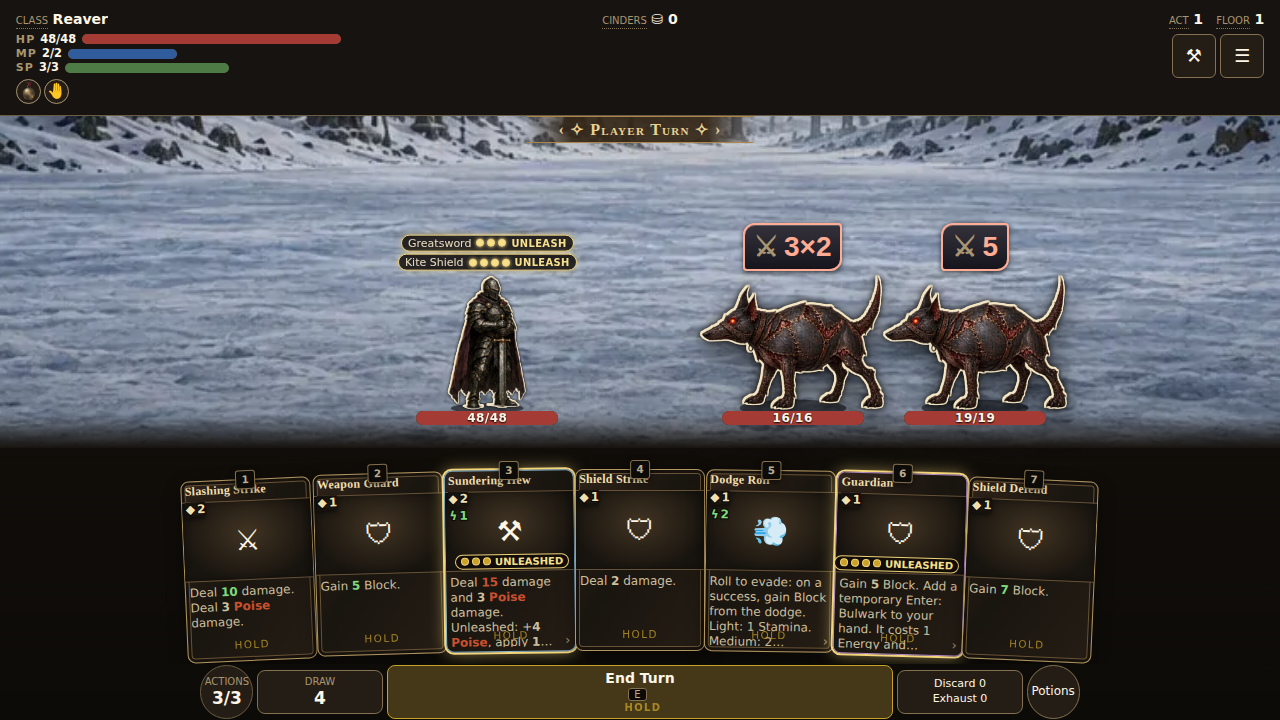
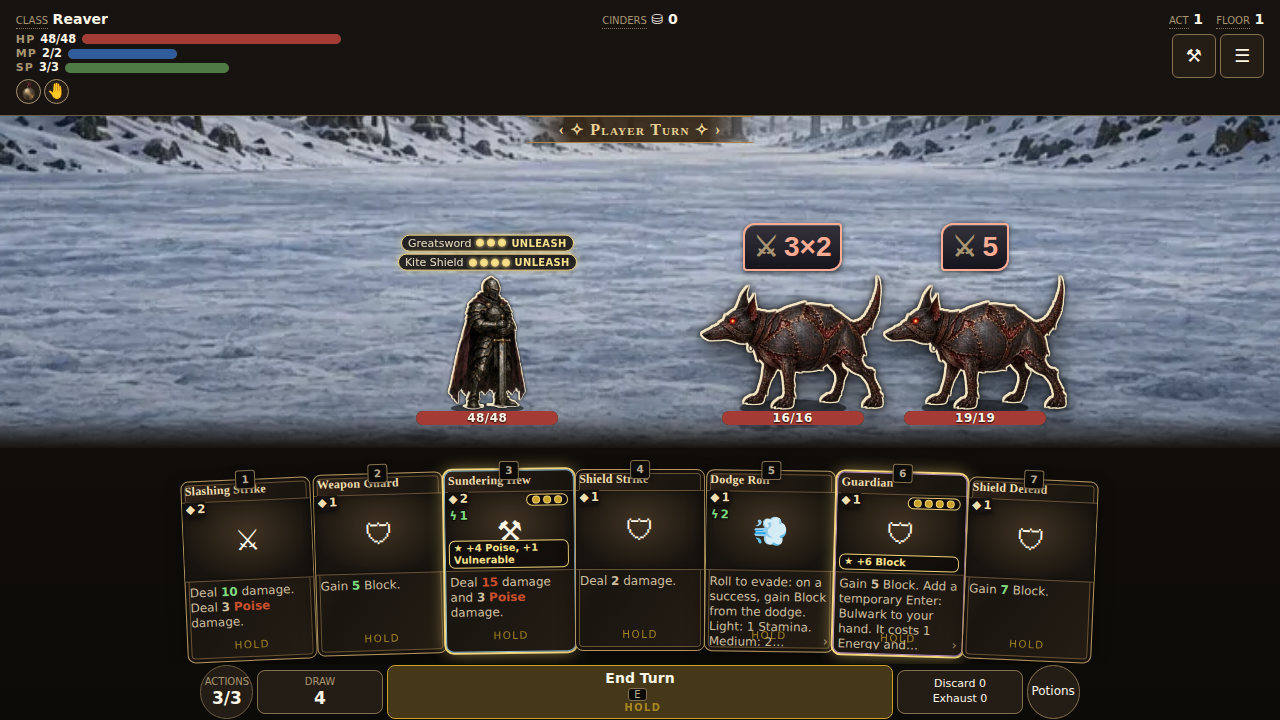
Print the unleashed bonus as a strip that fits a resting card
The 'Unleashed: +4 Poise, apply 1 Vulnerable.' line was appended to the
rules text, so at resting size it truncated, and on a card with long
rules (Guardian) it never showed at all. The line is now compact
('★ +4 Poise, +1 Vulnerable') and rides the foot of the art band as its
own wrapping strip; the charge pill moves clear of it. In the phone's
overlapping hand the strip keeps to the card's uncovered step and prints
a shorter form (dmg, Vuln.) so the whole bonus reads at rest. The full
HUD shots are re-captured.

Claude-Session: https://claude.ai/code/session_01WtZoQ4ef1DTf4X48gT3n5K

diff --git a/src/ui/components/card.js b/src/ui/components/card.js
@@ -125,8 +125,11 @@ export function renderCard(registries, ref, opts = {}) {
   // A weapon Art whose charge meter is full prints its unleashed line after
   // its own text (SPEC §12.2.1): the template comes from the preview, and its
   // tokens are in the preview's tokens, so it fills like any card text.
+  // It rides the foot of the art band as its own strip rather than the end of
+  // the rules text: a long rules text clipped it at resting size, and the art
+  // band has room the text band does not. A face that withholds the art band
+  // prints it after the text instead.
   const unleashedLine = opts.preview && opts.preview.artCharge && opts.preview.artCharge.unleashed && opts.preview.artCharge.textTemplate;
-  const printedDef = unleashedLine ? { ...def, textTemplate: `${def.textTemplate} ${unleashedLine}` } : def;
   const el = document.createElement('div');
   // THE FACE IS THE KIT'S CARD (§10): a fixed box, fixed landmarks (name, art,
   // type band), and one shared row budget below the band that tags and text
@@ -223,6 +226,12 @@ export function renderCard(registries, ref, opts = {}) {
     // still takes its share of the face's row budget, so the card would be the
     // same card with holes rather than a larger-typed one — and a screen
     // reader would announce a field the player cannot see.
+    const unleashedShort = unleashedLine && opts.preview.artCharge.shortTemplate;
+    const unleashedHtml = unleashedLine
+      ? `<span class="cd-unleashed-long">${fillTemplate({ ...def, textTemplate: unleashedLine }, model.tokens, model.baseTokens)}</span>`
+        + (unleashedShort ? `<span class="cd-unleashed-short">${fillTemplate({ ...def, textTemplate: unleashedShort }, model.tokens, model.baseTokens)}</span>` : '')
+      : '';
+    const printedDef = unleashedLine && !visible.has('art') ? { ...def, textTemplate: `${def.textTemplate} ${unleashedLine}` } : def;
     const body = region('type', `<div class="ctype">${esc(model.type.label)}</div>`)
       + region('effects', `<div class="ctext cd-text">${fillTemplate(printedDef, model.tokens, model.baseTokens)}</div>`);
     // The information button and the chevron are children of the card that
@@ -263,7 +272,8 @@ export function renderCard(registries, ref, opts = {}) {
         ? `<div class="ctags cd-tags">${tags
             .map((t) => `<span class="ctag as-tag" style="--tag-color:#${esc(t.color)}" data-tip="${esc(t.blurb + (t.inheritedFrom.length ? ` Granted by ${t.inheritedFrom.join(', ')}.` : ''))}">${esc(t.glyph)} ${esc(t.label)}</span>`)
             .join('')}</div>`
-        : '') + '</div>') +
+        : '') +
+      (unleashedHtml ? `<div class="cd-unleashed" data-unleashed-line>${unleashedHtml}</div>` : '') + '</div>') +
       (body ? `<div class="cd-body">${body}</div>` : '') +
       region('footer', metadataBand(def.rarity, opts.owned));
     // Stamp what this paint drew BEFORE the kept children go back on, so the

diff --git a/styles/combat.css b/styles/combat.css
@@ -1549,7 +1549,19 @@
   font-size: calc(10px / var(--ui-zoom, 1)); color: #f7e08c; white-space: nowrap; font-weight: 700; text-transform: uppercase;
 }
 .hand .card[data-art-charge='full'] { box-shadow: 0 0 0 2px #f3d57a, 0 0 16px #f3d57a99; }
-.hand .card[data-art-charge='full'] .art-charge-card { border-color: #f3d57a; }
+.hand .card[data-art-charge='full'] .art-charge-card { border-color: #f3d57a; top: 13%; }
+/* The unleashed strip (card.js): the full bonus at the foot of the art band,
+   wrapping rather than clipping, so it reads in full at resting size. */
+.card .art .cd-unleashed {
+  position: absolute; left: calc(3px / var(--ui-zoom, 1)); right: calc(3px / var(--ui-zoom, 1)); bottom: calc(2px / var(--ui-zoom, 1)); z-index: 2;
+  padding: calc(1px / var(--ui-zoom, 1)) calc(4px / var(--ui-zoom, 1)); border: 1px solid #f3d57a; border-radius: calc(6px / var(--ui-zoom, 1));
+  background: #120d09e6; color: #f7e08c; font-size: calc(10px / var(--ui-zoom, 1)); font-weight: 700; line-height: 1.2;
+  text-align: center; white-space: normal; overflow-wrap: break-word; pointer-events: none;
+}
+/* In an overlapping hand only a card's left step is uncovered at rest
+   (--hand-hit-width, hand.js), so the strip keeps to that step and wraps. */
+.hand .card .art .cd-unleashed { max-width: calc(var(--hand-hit-width, 100%) - 10px / var(--ui-zoom, 1)); text-align: left; }
+.card .cd-unleashed-short { display: none; }
 .hand .card[data-art-charge='full'].art-charge-flash { animation: art-charge-flash 700ms ease-out 2; }
 .reduced-motion .combat .art-charge-row.flash,
 .reduced-motion .hand .card.art-charge-flash { animation: none; }
@@ -1564,7 +1576,10 @@
   .combat .art-charge-row { padding: calc(2px / var(--ui-zoom, 1)) calc(4px / var(--ui-zoom, 1)); }
   /* Overlapping cards cover each other's right side, so the pips sit on the
      card's top-left edge, above the cost — the part every card keeps visible. */
-  .hand .card .art-charge-card { left: calc(2px / var(--ui-zoom, 1)); right: auto; top: calc(-8px / var(--ui-zoom, 1)); z-index: 5; }
+  .hand .card .art .cd-unleashed { left: calc(1px / var(--ui-zoom, 1)); max-width: calc(var(--hand-hit-width, 100%) - 4px / var(--ui-zoom, 1)); font-size: calc(9px / var(--ui-zoom, 1)); line-height: 1.15; padding-inline: calc(2px / var(--ui-zoom, 1)); }
+  .hand .card .art .cd-unleashed-long { display: none; }
+  .hand .card .art .cd-unleashed-short { display: inline; }
+  .hand .card .art-charge-card, .hand .card[data-art-charge='full'] .art-charge-card { left: calc(2px / var(--ui-zoom, 1)); right: auto; top: calc(-8px / var(--ui-zoom, 1)); z-index: 5; }
 }
 /* ---------- combat juice (SPEC §7.4): damage scale, hit-stop, kill cam ----------
    Decisions and every number: CombatJuiceModel.js + combatJuiceModel.json.

diff --git a/src/model/artCharge.js b/src/model/artCharge.js
@@ -144,26 +144,45 @@ export function artChargeSnapshotProblems(value) {
 }
 
 /**
- * unleashedTemplate(form, statusName) → the card-text line (SPEC §3.13) for an
- * unleashed form: "Unleashed: +{unleashed.0} damage, …". Each value token is
+ * shortStatusName(name) → the phone strip's word for a status: a name of six
+ * letters or fewer as it is ("Bleed"), the last word of a longer multi-word
+ * name when that is short ("Crimson Blight" → "Blight"), else its first four
+ * letters and a stop ("Vulnerable" → "Vuln.").
+ */
+export function shortStatusName(name = '') {
+  const s = String(name);
+  if (s.length <= 6) return s;
+  const last = s.split(/\s+/).pop();
+  if (last !== s && last.length <= 6) return last;
+  return `${s.slice(0, 4)}.`;
+}
+
+/**
+ * unleashedTemplate(form, statusName, { short }) → the card-text line (SPEC §3.13) for an
+ * unleashed form: "★ +{unleashed.0} damage, +{unleashed.1} Bleed". Compact on
+ * purpose — it must fit a resting hand card in full; the ★ is the Unleashed
+ * mark the meter and the card's edge already explain. `short` is the phone
+ * hand's wording (dmg, shortStatusName), where only a card's uncovered step
+ * shows at rest. Each value token is
  * `unleashed.<effect index>`, filled by previewCard with the same evaluator
  * the play uses, so the printed number is the number that lands.
  */
-export function unleashedTemplate(form, statusName = (id) => id) {
+export function unleashedTemplate(form, statusName = (id) => id, { short = false } = {}) {
   const parts = [];
+  const name = short ? (id) => shortStatusName(statusName(id)) : statusName;
   (form && form.effects || []).forEach((eff, i) => {
     const tok = `{unleashed.${i}}`;
     const hits = typeof eff.hits === 'number' && eff.hits > 1 ? `×${eff.hits}` : '';
-    const all = eff.target === 'allEnemies' ? ' to all' : '';
+    const all = eff.target === 'allEnemies' ? (short ? ' all' : ' to all') : '';
     switch (eff.op) {
-      case 'damage': parts.push(`+${tok}${hits} damage${all}`); break;
+      case 'damage': parts.push(`+${tok}${hits} ${short ? 'dmg' : 'damage'}${all}`); break;
       case 'poiseDamage': parts.push(`+${tok} Poise${all}`); break;
       case 'block': parts.push(`+${tok} Block`); break;
       case 'draw': parts.push(`draw ${tok}`); break;
       case 'heal': parts.push(`heal ${tok}`); break;
-      case 'applyStatus': parts.push(`${eff.target === 'self' ? 'gain' : 'apply'} ${tok} ${statusName(eff.status)}${all}`); break;
+      case 'applyStatus': parts.push(`+${tok} ${name(eff.status)}${all}`); break;
       default: parts.push(eff.op);
     }
   });
-  return parts.length ? `Unleashed: ${parts.join(', ')}.` : '';
+  return parts.length ? `★ ${parts.join(', ')}` : '';
 }

diff --git a/src/engine/combat.js b/src/engine/combat.js
@@ -1223,11 +1223,13 @@ export function previewCard(combat, cardInstanceId, targetId) {
   // whose lender has a meter.
   const unleash = artUnleashFor(combat, inst);
   let unleashedText = null;
+  let unleashedShort = null;
   if (unleash && unleash.ready) {
     // The unleashed line joins the card text (SPEC §3.13): its tokens are
     // resolved here by the same math the play will run.
     const statusName = (id) => (combat.registries.statuses.has(id) ? combat.registries.statuses.get(id).name : id);
     unleashedText = unleashedTemplate(unleash.form, statusName);
+    unleashedShort = unleashedTemplate(unleash.form, statusName, { short: true });
     unleash.form.effects.forEach((eff, i) => {
       const primary = firstResolvedTarget(combat, action, eff);
       let value;
@@ -1239,7 +1241,7 @@ export function previewCard(combat, cardInstanceId, targetId) {
     });
   }
   return {
-    ...(unleash ? { artCharge: { weaponId: unleash.weaponId, value: unleash.value, max: unleash.max, unleashed: unleash.ready, ...(unleashedText ? { textTemplate: unleashedText } : {}) } } : {}),
+    ...(unleash ? { artCharge: { weaponId: unleash.weaponId, value: unleash.value, max: unleash.max, unleashed: unleash.ready, ...(unleashedText ? { textTemplate: unleashedText, shortTemplate: unleashedShort } : {}) } } : {}),
     cardId: inst.cardId,
     upgraded: inst.upgraded,
     name: def.name,

diff --git a/src/ui/screens/combat.js b/src/ui/screens/combat.js
@@ -1316,7 +1316,8 @@ export function mountCombat(app, { registries, run, combat, meta, onEnd, showTut
       badge.appendChild(artChargePips(charge.value, charge.max));
       if (charge.unleashed) {
         const form = unleashedFormFor(registries, inst.cardId);
-        badge.appendChild(el('span', { text: t('combat.art.unleashed') }));
+        // The card's own unleashed strip (card.js) prints the bonus, so the
+        // marker is the pips alone and moves clear of that strip.
         badge.title = form ? `Unleashed: ${unleashedSummary(form.effects, statusDisplayName)}` : t('combat.art.unleashed');
       }
       node.appendChild(badge);

diff --git a/SPEC.md b/SPEC.md
@@ -1807,7 +1807,7 @@ A transaction validates current stock, ownership, capacity, and funds at commitm
 6. **Swap** (`swapArmament`, `changeEquipment`): the meter belongs to the armament, not the hand. A swapped-out weapon keeps its stored value for the rest of the fight but neither gains nor unleashes; swapping it back in resumes from that value. A swapped-in weapon starts from its own stored value (0 if unused this fight).
 7. **Preview.** `previewCard` reports `artCharge: { weaponId, value, max, unleashed }` for a `weaponArt` instance whose lender has a meter, so the hand and HUD read the same answer the play will use.
 8. **Save compatibility.** The combat snapshot carries `artCharge` (a map of non-negative integers, validated when present). A snapshot written before this subsection has no field and restores with every meter at 0; nothing is migrated and no RNG is drawn. The remembered last-hit weapon is transient and not saved — saves happen at committed boundaries where no card is resolving.
-9. **Presentation.** The player's combat frame shows one pip bar per equipped weapon with a meter (weapon name, `value/max` pips, accessible label). A meter that has just become full flashes once; with reduced motion (OS preference or the in-game setting) it shows a static highlight instead. The Art card in hand carries the same pips (on phone widths at the card's top-left edge, which overlapping cards never cover) and, when full, an *Unleashed* marker; its printed text gains an `Unleashed: …` line built by `unleashedTemplate` whose numbers are ordinary template tokens (`{unleashed.<i>}`, §3.13) resolved by `previewCard` with the play's own math, reported as `artCharge.textTemplate`. The engine stays headless; the UI reads `combat.artCharge` through `src/model/artCharge.js`.
+9. **Presentation.** The player's combat frame shows one pip bar per equipped weapon with a meter (weapon name, `value/max` pips, accessible label). A meter that has just become full flashes once; with reduced motion (OS preference or the in-game setting) it shows a static highlight instead. The Art card in hand carries the same pips (on phone widths at the card's top-left edge, which overlapping cards never cover) and, when full, a gold edge and an unleashed strip: a `★ +4 Poise, +1 Vulnerable` line built by `unleashedTemplate` whose numbers are ordinary template tokens (`{unleashed.<i>}`, §3.13) resolved by `previewCard` with the play's own math, reported as `artCharge.textTemplate`. The strip sits at the foot of the card's art band (after the rules text only on a face that withholds the art band), wraps rather than clips, and in an overlapping hand keeps to the card's uncovered step; phone widths print `artCharge.shortTemplate` (`dmg`, and status names shortened by `shortStatusName`, e.g. `Vuln.`) so the whole line reads at resting size. The engine stays headless; the UI reads `combat.artCharge` through `src/model/artCharge.js`.
 
 Acceptance (`tests/weapon-art-charge.test.mjs`): accrual per qualifying hit and not from the Art itself; the cap; stagger/burst credit; the unleashed play adds its effects and spends the meter while a non-full play spends nothing; per-weapon values survive a swap out and back; a snapshot round-trips the meter and a snapshot without the field loads at 0; content validation refuses a malformed unleashed form. Screenshots of the combat HUD at a partial and a full meter live in `docs/evidence/game-feel-rework/weapon-art-charge/`.
 
